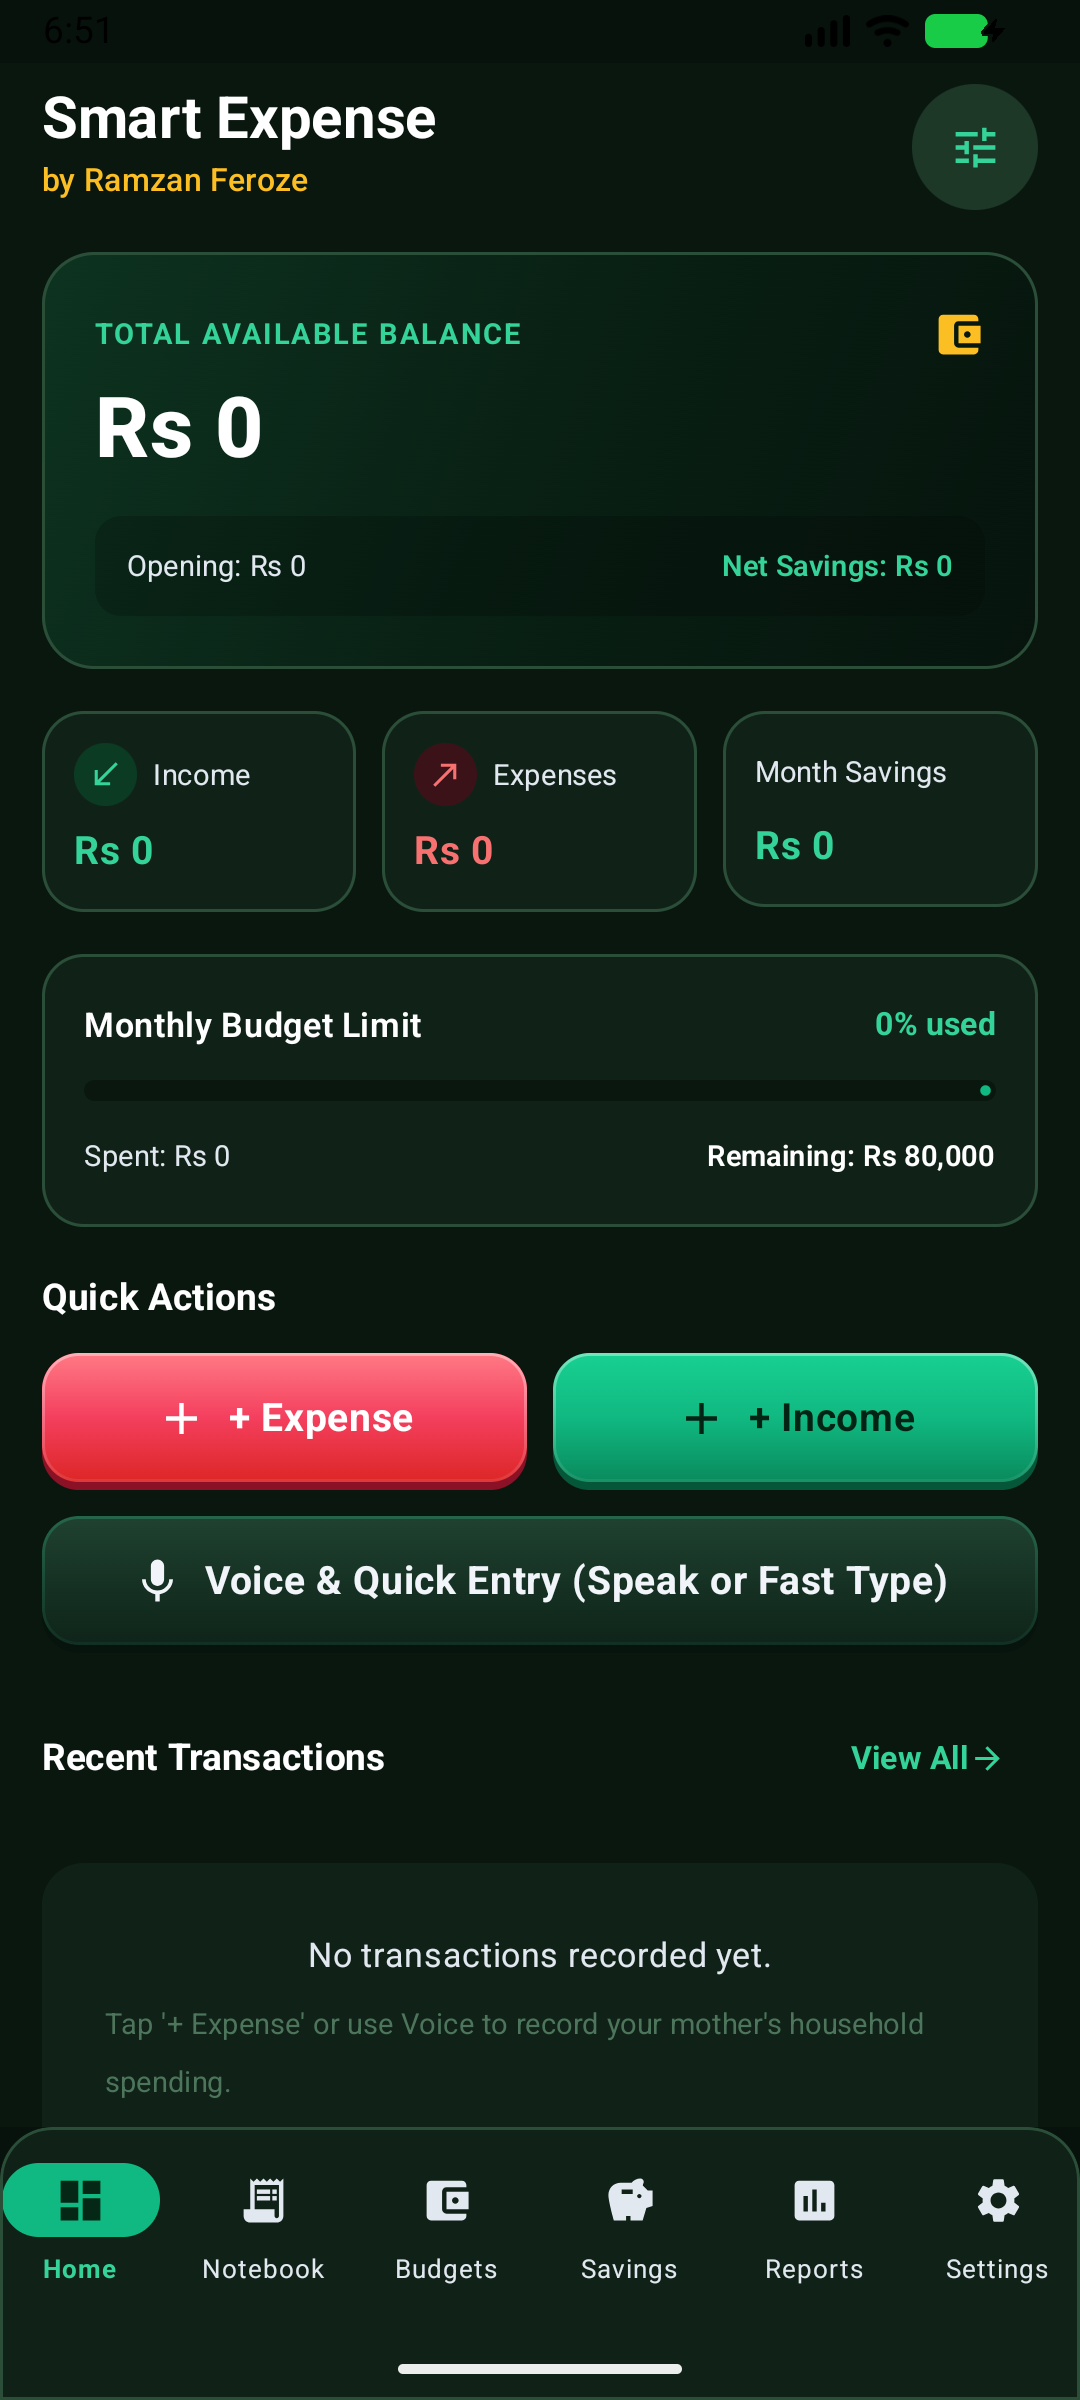
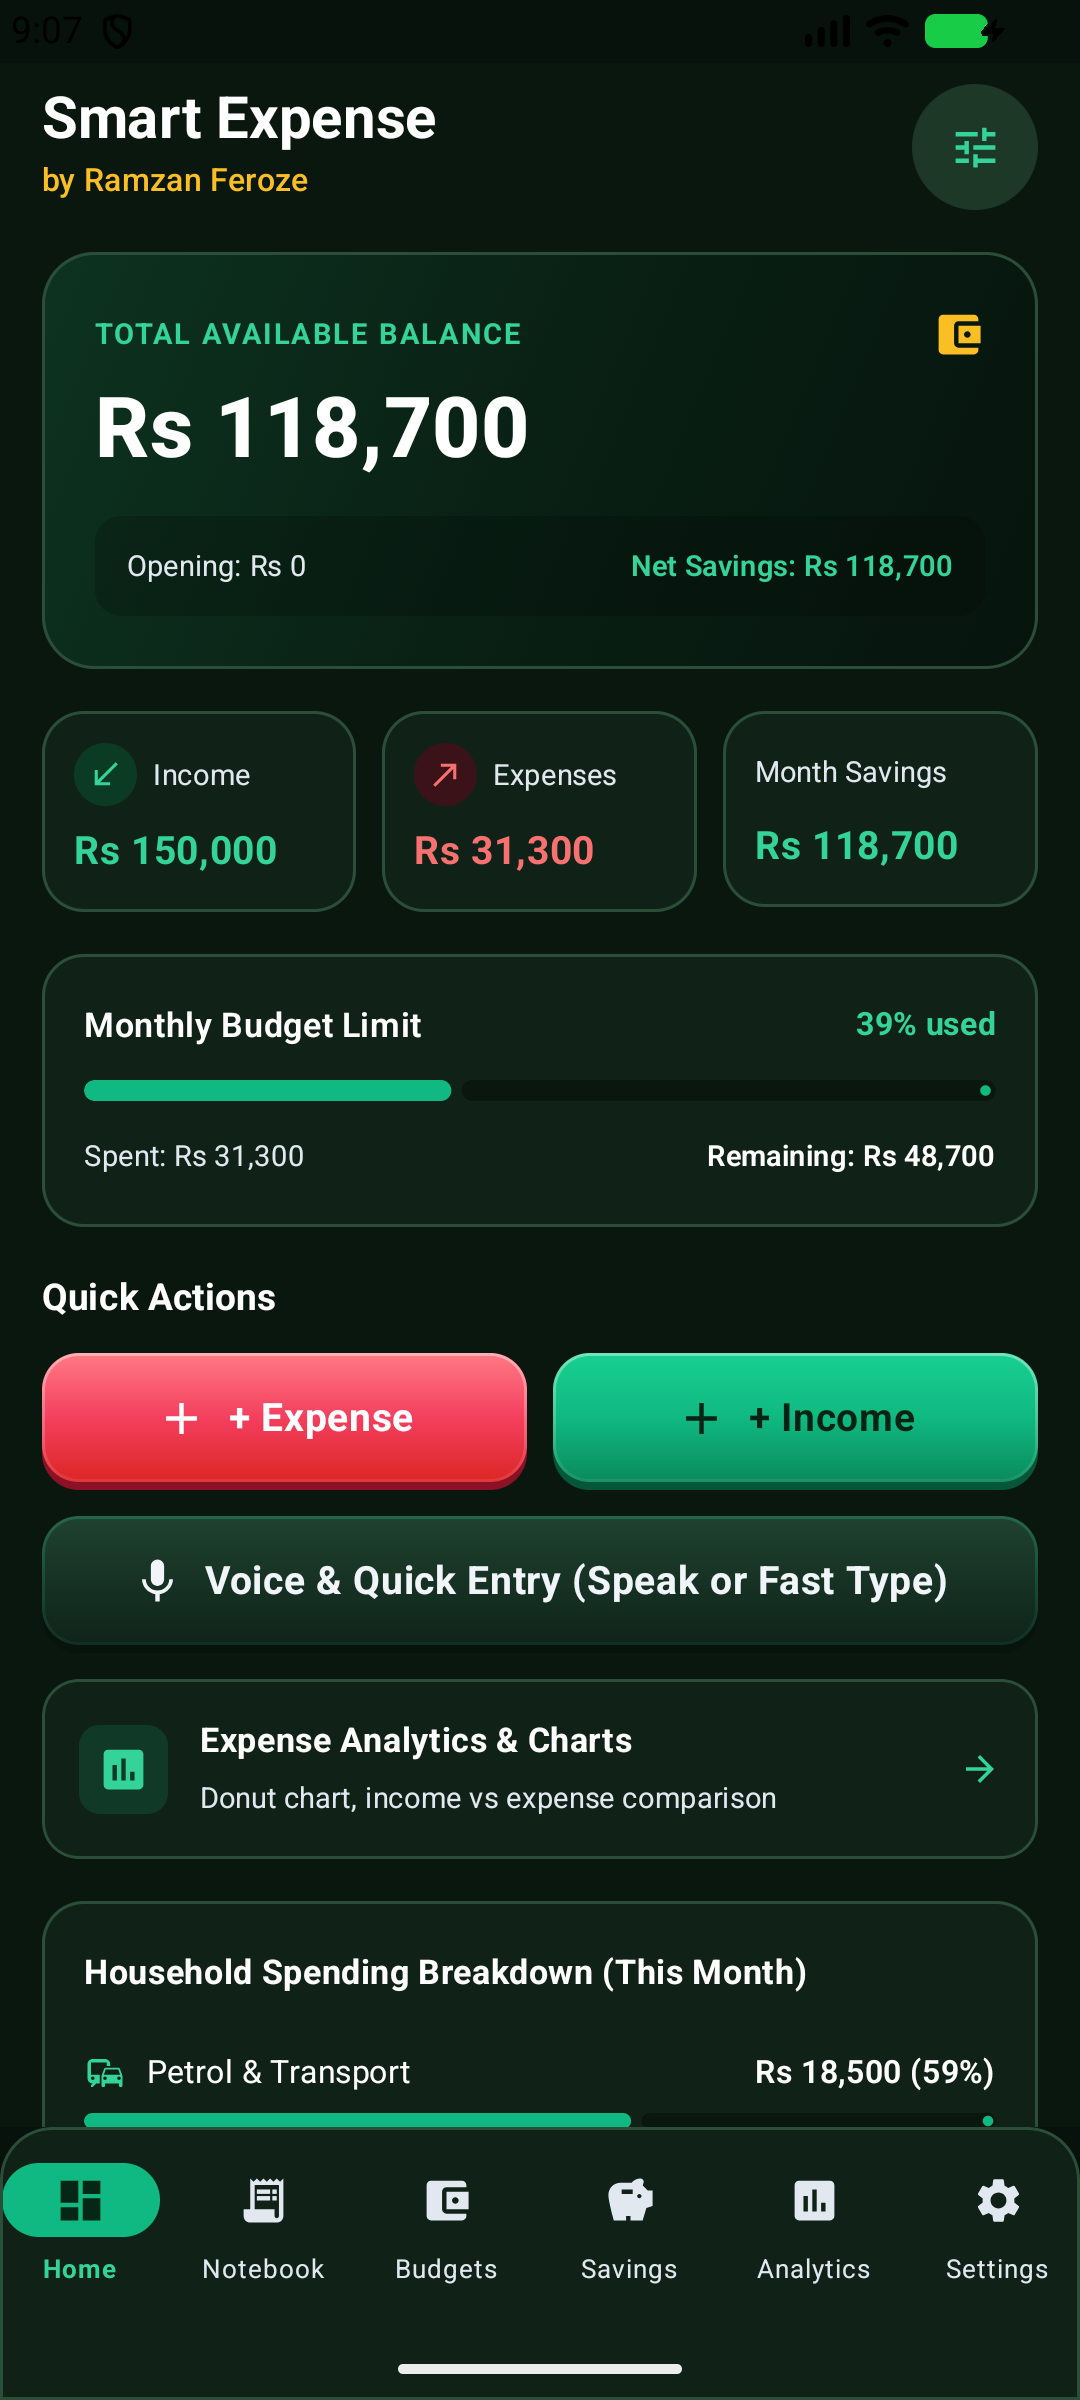
feat(carousel): add high-res screenshots for Smart Expense v1.5 new features

diff --git a/index.html b/index.html
@@ -383,10 +383,10 @@
             <div>
               <span class="eyebrow">AUTHENTIC APPLICATION SCREENS</span>
               <h3 class="section-title" style="font-size: clamp(1.5rem, 3vw, 2.25rem); margin-top: 0.35rem;">
-                Live Android Interface Preview
+                Live Android Interface Preview (v1.5)
               </h3>
-              <p class="section-desc" style="max-width: 600px;">
-                Captured directly from the running Android build. Tap or click any screen to enlarge in full-resolution lightbox.
+              <p class="section-desc" style="max-width: 640px;">
+                Captured live from the updated Android build (v1.5). Explore new voice &amp; AI quick entry, visual analytics charts, 3 display themes, opening balance setup, and Pakistani Rupee cashflow tracking. Tap any screen to enlarge in high resolution.
               </p>
             </div>
 
@@ -409,11 +409,11 @@
           <div class="se-carousel-viewport">
             <div class="se-carousel-track" id="seCarouselTrack" tabindex="0" role="region" aria-label="Smart Expense Screenshots">
 
-              <!-- Slide 1: Dashboard -->
-              <div class="se-slide-card" data-index="0" data-img="assets/images/smart-expense/01-dashboard.png" data-title="Dashboard &amp; Cashflow Overview">
+              <!-- Slide 1: Live Populated Dashboard -->
+              <div class="se-slide-card" data-index="0" data-img="assets/images/smart-expense/01-dashboard.png" data-title="Smart Expense — Live Cashflow Dashboard">
                 <div class="se-device-frame">
                   <div class="se-device-screen">
-                    <img src="assets/images/smart-expense/01-dashboard.png" alt="Smart Expense Dashboard Screen" loading="lazy" />
+                    <img src="assets/images/smart-expense/01-dashboard.png" alt="Smart Expense Live Cashflow Dashboard Screen" loading="lazy" />
                     <div class="se-device-hover-overlay">
                       <svg viewBox="0 0 24 24" fill="none" stroke="currentColor" stroke-width="2.5"><circle cx="11" cy="11" r="8"/><line x1="21" y1="21" x2="16.65" y2="16.65"/><line x1="11" y1="8" x2="11" y2="14"/><line x1="8" y1="11" x2="14" y2="11"/></svg>
                       <span>Click to Zoom</span>
@@ -423,18 +423,18 @@
                 <div class="se-slide-info">
                   <div class="se-slide-meta">
                     <span class="se-slide-num">01 / 08</span>
-                    <span class="se-slide-tag">MAIN HUB</span>
+                    <span class="se-slide-tag">LIVE DASHBOARD</span>
                   </div>
-                  <h4 class="se-slide-title">Cashflow Dashboard</h4>
-                  <p class="se-slide-caption">Total balance card, monthly budget limit, income/expense cards &amp; quick entry actions.</p>
+                  <h4 class="se-slide-title">Cashflow Dashboard (Live)</h4>
+                  <p class="se-slide-caption">Real-time balance card, opening cash balance, spent budget limit progress &amp; recent household transactions.</p>
                 </div>
               </div>
 
-              <!-- Slide 2: PKR Denomination Keypad -->
-              <div class="se-slide-card" data-index="1" data-img="assets/images/smart-expense/02-income-denominations.png" data-title="Pakistani Rupee Note Selectors">
+              <!-- Slide 2: Voice & AI Quick Entry (NEW in v1.5) -->
+              <div class="se-slide-card" data-index="1" data-img="assets/images/smart-expense/02-voice-quick-entry.png" data-title="Smart Expense — Voice &amp; AI Quick Entry">
                 <div class="se-device-frame">
                   <div class="se-device-screen">
-                    <img src="assets/images/smart-expense/02-income-denominations.png" alt="Pakistani Rupee Note Denominations Screen" loading="lazy" />
+                    <img src="assets/images/smart-expense/02-voice-quick-entry.png" alt="Smart Expense Voice and Quick Entry Screen" loading="lazy" />
                     <div class="se-device-hover-overlay">
                       <svg viewBox="0 0 24 24" fill="none" stroke="currentColor" stroke-width="2.5"><circle cx="11" cy="11" r="8"/><line x1="21" y1="21" x2="16.65" y2="16.65"/><line x1="11" y1="8" x2="11" y2="14"/><line x1="8" y1="11" x2="14" y2="11"/></svg>
                       <span>Click to Zoom</span>
@@ -444,18 +444,18 @@
                 <div class="se-slide-info">
                   <div class="se-slide-meta">
                     <span class="se-slide-num">02 / 08</span>
-                    <span class="se-slide-tag">PKR PRESETS</span>
+                    <span class="se-slide-tag" style="color:#C7FF4D; font-weight:700;">NEW IN V1.5</span>
                   </div>
-                  <h4 class="se-slide-title">PKR Note Denominations</h4>
-                  <p class="se-slide-caption">One-touch keypad buttons for Rs. 100, 500, 1,000 &amp; 5,000 for rapid cash recording.</p>
+                  <h4 class="se-slide-title">Voice &amp; AI Quick Entry</h4>
+                  <p class="se-slide-caption">Instant speech-to-text input (e.g. &ldquo;1200 milk jazzcash&rdquo;) automatically parsed and logged without typing.</p>
                 </div>
               </div>
 
-              <!-- Slide 3: Add Expense Screen -->
-              <div class="se-slide-card" data-index="2" data-img="assets/images/smart-expense/03-add-expense.png" data-title="Add Expense Transaction Screen">
+              <!-- Slide 3: Expense Analytics & Donut Charts (NEW in v1.5) -->
+              <div class="se-slide-card" data-index="2" data-img="assets/images/smart-expense/03-analytics-charts.png" data-title="Smart Expense — Expense Analytics &amp; Visual Charts">
                 <div class="se-device-frame">
                   <div class="se-device-screen">
-                    <img src="assets/images/smart-expense/03-add-expense.png" alt="Add Expense Transaction Screen" loading="lazy" />
+                    <img src="assets/images/smart-expense/03-analytics-charts.png" alt="Smart Expense Analytics and Visual Charts Screen" loading="lazy" />
                     <div class="se-device-hover-overlay">
                       <svg viewBox="0 0 24 24" fill="none" stroke="currentColor" stroke-width="2.5"><circle cx="11" cy="11" r="8"/><line x1="21" y1="21" x2="16.65" y2="16.65"/><line x1="11" y1="8" x2="11" y2="14"/><line x1="8" y1="11" x2="14" y2="11"/></svg>
                       <span>Click to Zoom</span>
@@ -465,18 +465,18 @@
                 <div class="se-slide-info">
                   <div class="se-slide-meta">
                     <span class="se-slide-num">03 / 08</span>
-                    <span class="se-slide-tag">LOGGING</span>
+                    <span class="se-slide-tag" style="color:#C7FF4D; font-weight:700;">NEW IN V1.5</span>
                   </div>
-                  <h4 class="se-slide-title">Add Expense Entry</h4>
-                  <p class="se-slide-caption">Category allocation, date/time pickers, account selectors, and transaction notes.</p>
+                  <h4 class="se-slide-title">Analytics &amp; Visual Charts</h4>
+                  <p class="se-slide-caption">Income vs expense comparisons over time, spending pattern donuts, and custom date range filters.</p>
                 </div>
               </div>
 
-              <!-- Slide 4: Budgets & Category Ceilings -->
-              <div class="se-slide-card" data-index="3" data-img="assets/images/smart-expense/04-budgets-limits.png" data-title="Category Spending Budgets &amp; Alert Engine">
+              <!-- Slide 4: 3 Display Themes (NEW in v1.5) -->
+              <div class="se-slide-card" data-index="3" data-img="assets/images/smart-expense/04-app-themes.png" data-title="Smart Expense — Three Display Themes">
                 <div class="se-device-frame">
                   <div class="se-device-screen">
-                    <img src="assets/images/smart-expense/04-budgets-limits.png" alt="Budgets and Spending Limits Screen" loading="lazy" />
+                    <img src="assets/images/smart-expense/04-app-themes.png" alt="Smart Expense Display Themes Screen" loading="lazy" />
                     <div class="se-device-hover-overlay">
                       <svg viewBox="0 0 24 24" fill="none" stroke="currentColor" stroke-width="2.5"><circle cx="11" cy="11" r="8"/><line x1="21" y1="21" x2="16.65" y2="16.65"/><line x1="11" y1="8" x2="11" y2="14"/><line x1="8" y1="11" x2="14" y2="11"/></svg>
                       <span>Click to Zoom</span>
@@ -486,18 +486,18 @@
                 <div class="se-slide-info">
                   <div class="se-slide-meta">
                     <span class="se-slide-num">04 / 08</span>
-                    <span class="se-slide-tag">BUDGET ENGINE</span>
+                    <span class="se-slide-tag" style="color:#C7FF4D; font-weight:700;">NEW IN V1.5</span>
                   </div>
-                  <h4 class="se-slide-title">Budgets &amp; Overrun Limits</h4>
-                  <p class="se-slide-caption">Category spending caps with real-time visual progress bars and proactive 80% / 100% warnings.</p>
+                  <h4 class="se-slide-title">3 App Display Themes</h4>
+                  <p class="se-slide-caption">Select between Default (Forest Green + Obsidian), Dark (Slate Gray), and Light (Crisp White).</p>
                 </div>
               </div>
 
-              <!-- Slide 5: Savings Goals -->
-              <div class="se-slide-card" data-index="4" data-img="assets/images/smart-expense/05-savings-goals.png" data-title="Savings Goals &amp; Milestone Tracking">
+              <!-- Slide 5: Opening Balance Setup (NEW in v1.5) -->
+              <div class="se-slide-card" data-index="4" data-img="assets/images/smart-expense/05-opening-balance.png" data-title="Smart Expense — Opening Balance Setup">
                 <div class="se-device-frame">
                   <div class="se-device-screen">
-                    <img src="assets/images/smart-expense/05-savings-goals.png" alt="Savings Goals Screen" loading="lazy" />
+                    <img src="assets/images/smart-expense/05-opening-balance.png" alt="Smart Expense Opening Balance Modal Screen" loading="lazy" />
                     <div class="se-device-hover-overlay">
                       <svg viewBox="0 0 24 24" fill="none" stroke="currentColor" stroke-width="2.5"><circle cx="11" cy="11" r="8"/><line x1="21" y1="21" x2="16.65" y2="16.65"/><line x1="11" y1="8" x2="11" y2="14"/><line x1="8" y1="11" x2="14" y2="11"/></svg>
                       <span>Click to Zoom</span>
@@ -507,18 +507,18 @@
                 <div class="se-slide-info">
                   <div class="se-slide-meta">
                     <span class="se-slide-num">05 / 08</span>
-                    <span class="se-slide-tag">MILESTONES</span>
+                    <span class="se-slide-tag" style="color:#C7FF4D; font-weight:700;">NEW IN V1.5</span>
                   </div>
-                  <h4 class="se-slide-title">Savings Goals</h4>
-                  <p class="se-slide-caption">Dedicated target monitoring for emergency reserves, investments, and personal milestones.</p>
+                  <h4 class="se-slide-title">Opening Cash &amp; Wallet Setup</h4>
+                  <p class="se-slide-caption">Dedicated starting balance setup so total funds accurately reflect physical cash-in-hand.</p>
                 </div>
               </div>
 
-              <!-- Slide 6: Analytics & Reports -->
-              <div class="se-slide-card" data-index="5" data-img="assets/images/smart-expense/06-analytics-reports.png" data-title="Monthly Analytics &amp; Visual Spend Reports">
+              <!-- Slide 6: Add Income with PKR Presets -->
+              <div class="se-slide-card" data-index="5" data-img="assets/images/smart-expense/06-add-income-pkr.png" data-title="Smart Expense — Add Income (Aamdani) with PKR Presets">
                 <div class="se-device-frame">
                   <div class="se-device-screen">
-                    <img src="assets/images/smart-expense/06-analytics-reports.png" alt="Analytics and Spend Reports Screen" loading="lazy" />
+                    <img src="assets/images/smart-expense/06-add-income-pkr.png" alt="Smart Expense Add Income Screen with PKR Presets" loading="lazy" />
                     <div class="se-device-hover-overlay">
                       <svg viewBox="0 0 24 24" fill="none" stroke="currentColor" stroke-width="2.5"><circle cx="11" cy="11" r="8"/><line x1="21" y1="21" x2="16.65" y2="16.65"/><line x1="11" y1="8" x2="11" y2="14"/><line x1="8" y1="11" x2="14" y2="11"/></svg>
                       <span>Click to Zoom</span>
@@ -528,18 +528,18 @@
                 <div class="se-slide-info">
                   <div class="se-slide-meta">
                     <span class="se-slide-num">06 / 08</span>
-                    <span class="se-slide-tag">ANALYTICS</span>
+                    <span class="se-slide-tag">PKR PRESETS</span>
                   </div>
-                  <h4 class="se-slide-title">Visual Reports &amp; Trends</h4>
-                  <p class="se-slide-caption">Clear breakdown charts showing expenditure percentages by category and payment channel.</p>
+                  <h4 class="se-slide-title">Add Income (Aamdani)</h4>
+                  <p class="se-slide-caption">One-touch banknote presets (+100, +500, +1,000, +5,000) with localized Pakistani income sources.</p>
                 </div>
               </div>
 
-              <!-- Slide 7: Notebook & Journal -->
-              <div class="se-slide-card" data-index="6" data-img="assets/images/smart-expense/07-notebook-journal.png" data-title="Expense Notebook &amp; Structured Financial Notes">
+              <!-- Slide 7: Add Expense (Kharch) -->
+              <div class="se-slide-card" data-index="6" data-img="assets/images/smart-expense/07-add-expense-kharch.png" data-title="Smart Expense — Add Expense (Kharch)">
                 <div class="se-device-frame">
                   <div class="se-device-screen">
-                    <img src="assets/images/smart-expense/07-notebook-journal.png" alt="Expense Notebook Screen" loading="lazy" />
+                    <img src="assets/images/smart-expense/07-add-expense-kharch.png" alt="Smart Expense Add Expense Screen" loading="lazy" />
                     <div class="se-device-hover-overlay">
                       <svg viewBox="0 0 24 24" fill="none" stroke="currentColor" stroke-width="2.5"><circle cx="11" cy="11" r="8"/><line x1="21" y1="21" x2="16.65" y2="16.65"/><line x1="11" y1="8" x2="11" y2="14"/><line x1="8" y1="11" x2="14" y2="11"/></svg>
                       <span>Click to Zoom</span>
@@ -549,18 +549,18 @@
                 <div class="se-slide-info">
                   <div class="se-slide-meta">
                     <span class="se-slide-num">07 / 08</span>
-                    <span class="se-slide-tag">JOURNAL</span>
+                    <span class="se-slide-tag">HOUSEHOLD KHARCH</span>
                   </div>
-                  <h4 class="se-slide-title">Notebook &amp; Journal</h4>
-                  <p class="se-slide-caption">Flexible financial notebook to jot down split bills, shopping lists, and future commitments.</p>
+                  <h4 class="se-slide-title">Add Expense (Kharch)</h4>
+                  <p class="se-slide-caption">Pakistani household categories (Groceries, Dairy, Meat, Utilities, Transport, Fuel) and multi-wallet selection.</p>
                 </div>
               </div>
 
-              <!-- Slide 8: Settings & Security -->
-              <div class="se-slide-card" data-index="7" data-img="assets/images/smart-expense/08-security-backup.png" data-title="Privacy Settings, Biometrics &amp; Database Backup">
+              <!-- Slide 8: Settings, Biometrics & Backup -->
+              <div class="se-slide-card" data-index="7" data-img="assets/images/smart-expense/08-settings-security.png" data-title="Smart Expense — Settings, Privacy &amp; Data Backup">
                 <div class="se-device-frame">
                   <div class="se-device-screen">
-                    <img src="assets/images/smart-expense/08-security-backup.png" alt="Settings and Biometric Security Screen" loading="lazy" />
+                    <img src="assets/images/smart-expense/08-settings-security.png" alt="Smart Expense Settings and Privacy Screen" loading="lazy" />
                     <div class="se-device-hover-overlay">
                       <svg viewBox="0 0 24 24" fill="none" stroke="currentColor" stroke-width="2.5"><circle cx="11" cy="11" r="8"/><line x1="21" y1="21" x2="16.65" y2="16.65"/><line x1="11" y1="8" x2="11" y2="14"/><line x1="8" y1="11" x2="14" y2="11"/></svg>
                       <span>Click to Zoom</span>
@@ -570,10 +570,10 @@
                 <div class="se-slide-info">
                   <div class="se-slide-meta">
                     <span class="se-slide-num">08 / 08</span>
-                    <span class="se-slide-tag">SECURITY</span>
+                    <span class="se-slide-tag">OFFLINE SECURITY</span>
                   </div>
-                  <h4 class="se-slide-title">Privacy &amp; Data Backup</h4>
-                  <p class="se-slide-caption">Biometric lock toggle, dark themes, JSON database backup/restore, and CSV export.</p>
+                  <h4 class="se-slide-title">Settings &amp; Encrypted Backup</h4>
+                  <p class="se-slide-caption">100% on-device SQLite security, monthly budget limits, JSON snapshot backup/restore, and CSV spreadsheet export.</p>
                 </div>
               </div>
 
